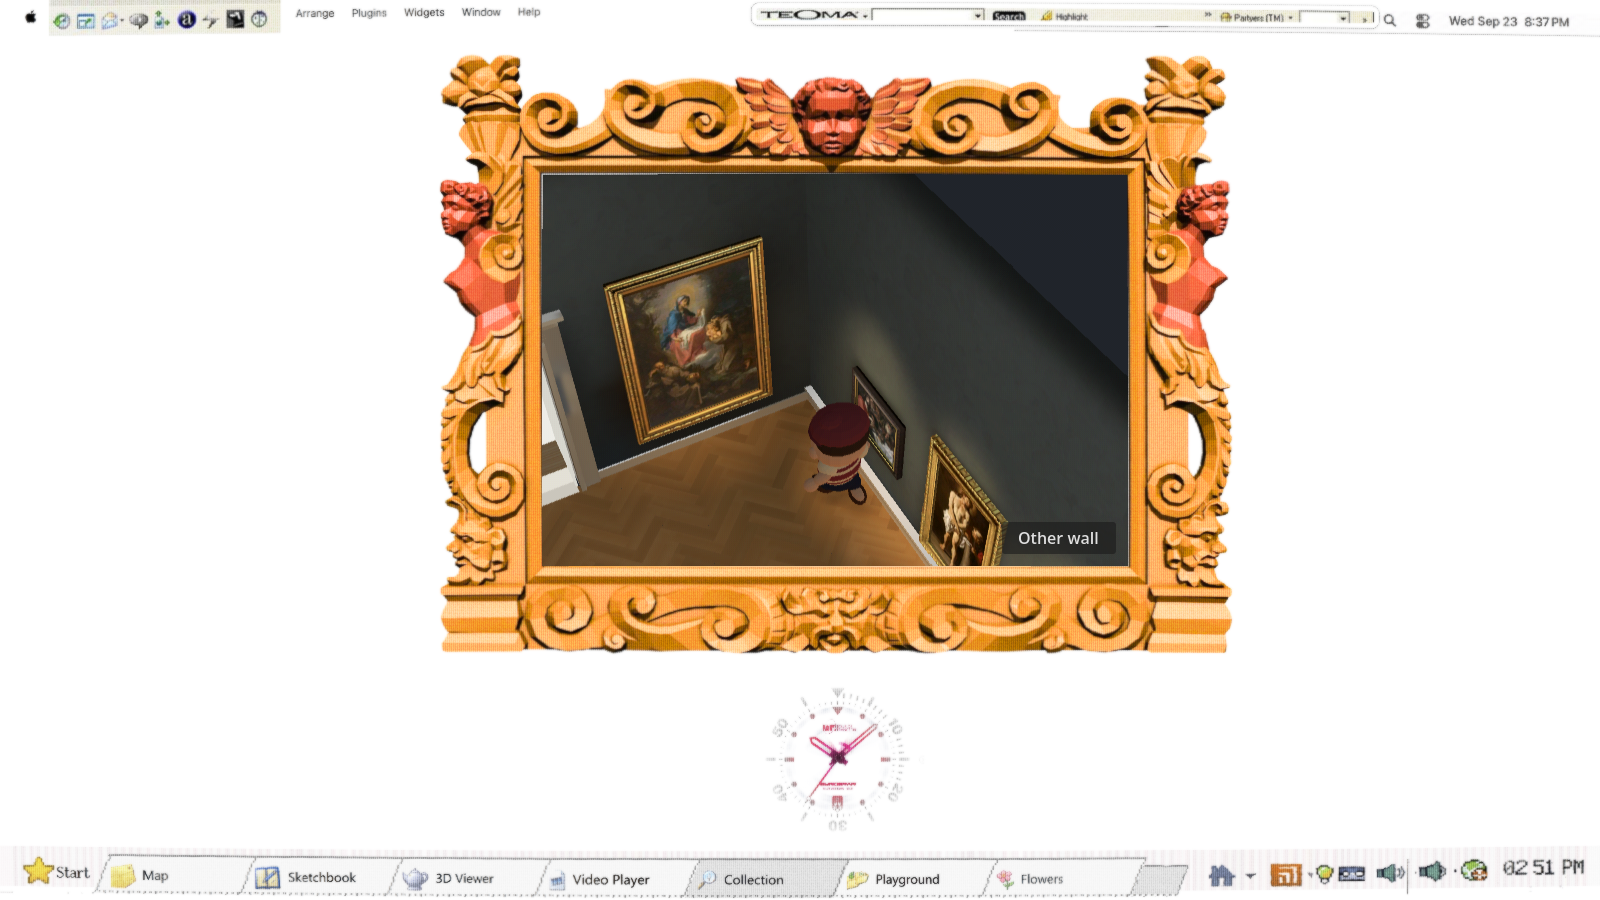
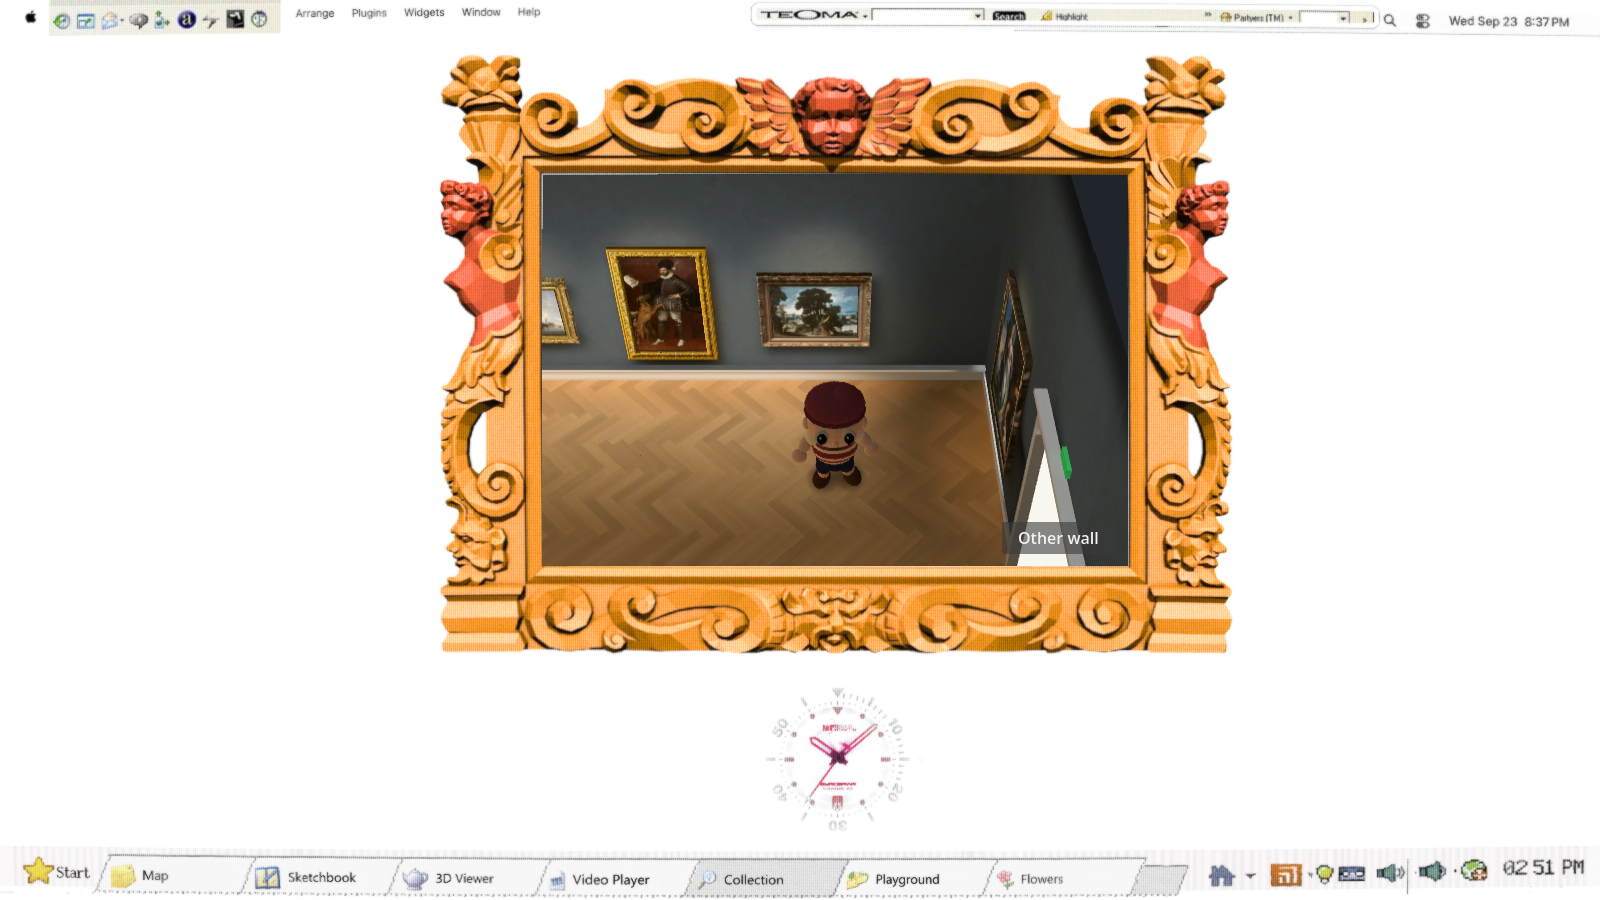
Require fresh opposite-wall event in browser check

Changed region(s): [[0.3125, 0.2178, 0.7188, 0.6533], [0.5625, 0.1867, 0.5938, 0.2178]]

diff --git a/docs/research/gallery-final-integrated-blind-review.md b/docs/research/gallery-final-integrated-blind-review.md
@@ -19,4 +19,4 @@ The rounded character, parquet floor, and framed paintings establish the directi
 
 These stills cannot certify motion, sound, performance, or exact GameCube raster behavior.
 
-Evidence scope: `entry-1600.png`, `opposite-wall-1600.png`, and `turn-720.png` were captured from the clean exported `105551c` build. `warm-720.png` and `art-720.png` came from the matched parquet trial's selected broad-floor run on the same camera, room, character and shader, before the “Other wall” control moved to the floor area. The reviewer saw only these images and the two owner-supplied references, not code or previous reviews. Copies are in `docs/evidence/gallery-final-integrated/`. The visible benches elsewhere along the long gallery were outside these sampled stills; the review does not establish that the room has no benches.
+Evidence scope: `entry-1600.png`, `corner-before-shortcut-1600.png`, and `turn-720.png` were captured from the clean exported `105551c` build. The corner image was called `opposite-wall-1600.png` in the blind packet, but a stale browser-check click had missed the moved button; it was a corner before the shortcut. That click is fixed, with actual opposite-wall screenshots at [1600](../evidence/gallery-final-integrated/opposite-wall-1600.png) and [720](../evidence/gallery-final-integrated/opposite-wall-720.png). `warm-720.png` and `art-720.png` came from the matched parquet trial's selected broad-floor run on the same camera, room, character and shader, before the “Other wall” control moved to the floor area. The reviewer saw only the original five images and two owner references, not code or previous reviews. Copies are in `docs/evidence/gallery-final-integrated/`. The visible benches elsewhere along the long gallery were outside these sampled stills; the review does not establish that the room has no benches.
